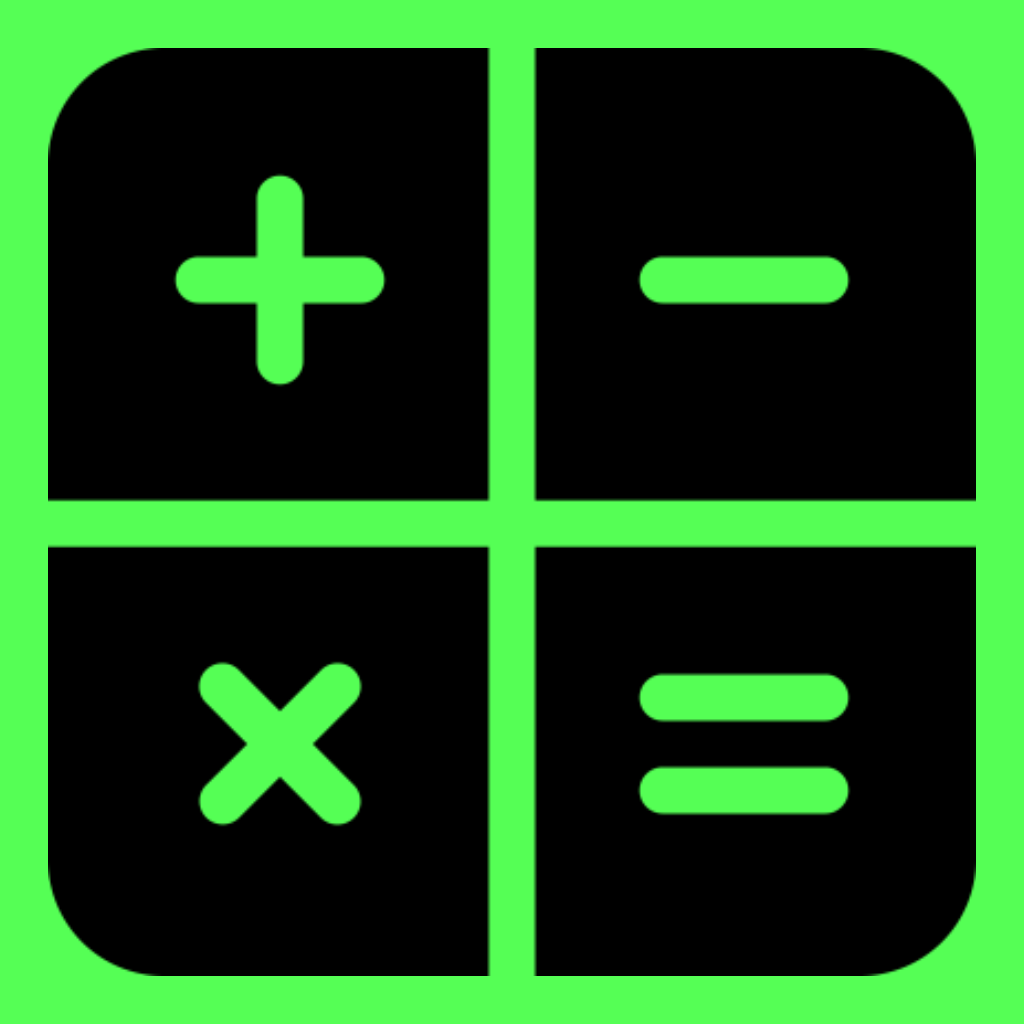
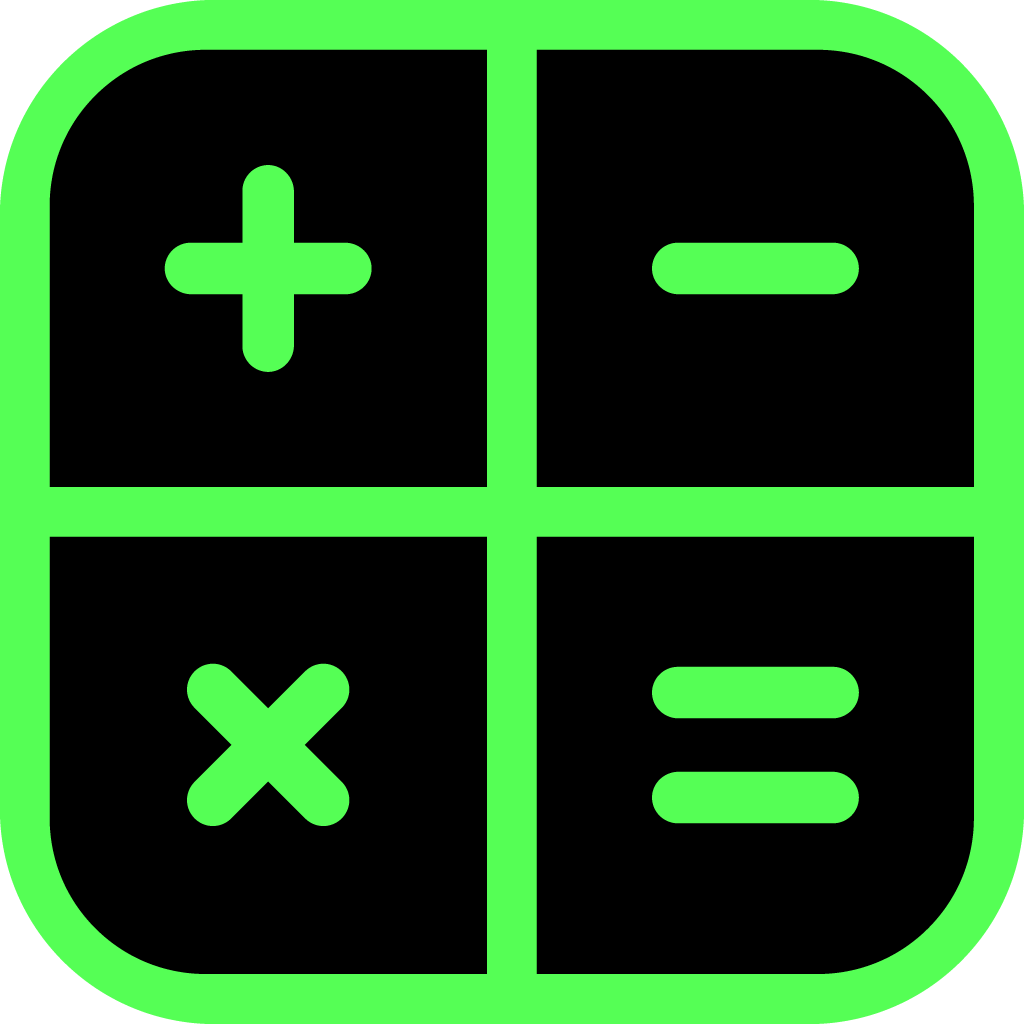
tried some things
changed icon, changed variables desc and storage help menu

diff --git a/src/main/java/net/jsa2025/calcmod/commands/subcommands/Variables.java b/src/main/java/net/jsa2025/calcmod/commands/subcommands/Variables.java
@@ -42,16 +42,17 @@ public class Variables {
 
     public static String[] execute() {
         String message = """
-            Dynamic variables will default to the stack size of each command. Here are the variables for the majority of commands which use a stack size of 64:
-                dub: 3456(dynamic)
+            Variables can be used inside equations in any number field. They act as shortcuts instead of having to remember that “a double chest full of 16 stackable items is 864.”
+            If no stack size is given, variables default to the stack size of each command
+                dub: 3456 (default)
                 dub64: 3456
                 dub16: 864
                 dub1: 54
-                sb: 1728(dynamic)
+                sb: 1728 (default)
                 sb64: 1728
                 sb16: 432
                 sb1: 27
-                stack: 64(dynamic)
+                stack: 64 (default)
                 stack64: 64
                 stack16: 16
                 stack1: 1

diff --git a/src/main/java/net/jsa2025/calcmod/commands/subcommands/Storage.java b/src/main/java/net/jsa2025/calcmod/commands/subcommands/Storage.java
@@ -88,7 +88,7 @@ public class Storage {
 
     public static String helpMessage = """
         §LStorage:§r
-            Given rate in terms of items per hour(can be in expression form) and optionally hopper speed, returns the number of needed sorters and rates in terms of sbs per hour
+        Calculates the number of needed item sorters given a rate of items per hour (can be in expression form). Additional input for multiple times hopper speed sorters.
             §cUsage: /calc storage <itemsperhour>
             Usage: /calc storage <timesHopperSpeed> <itemsperhour> §f
                 """;
